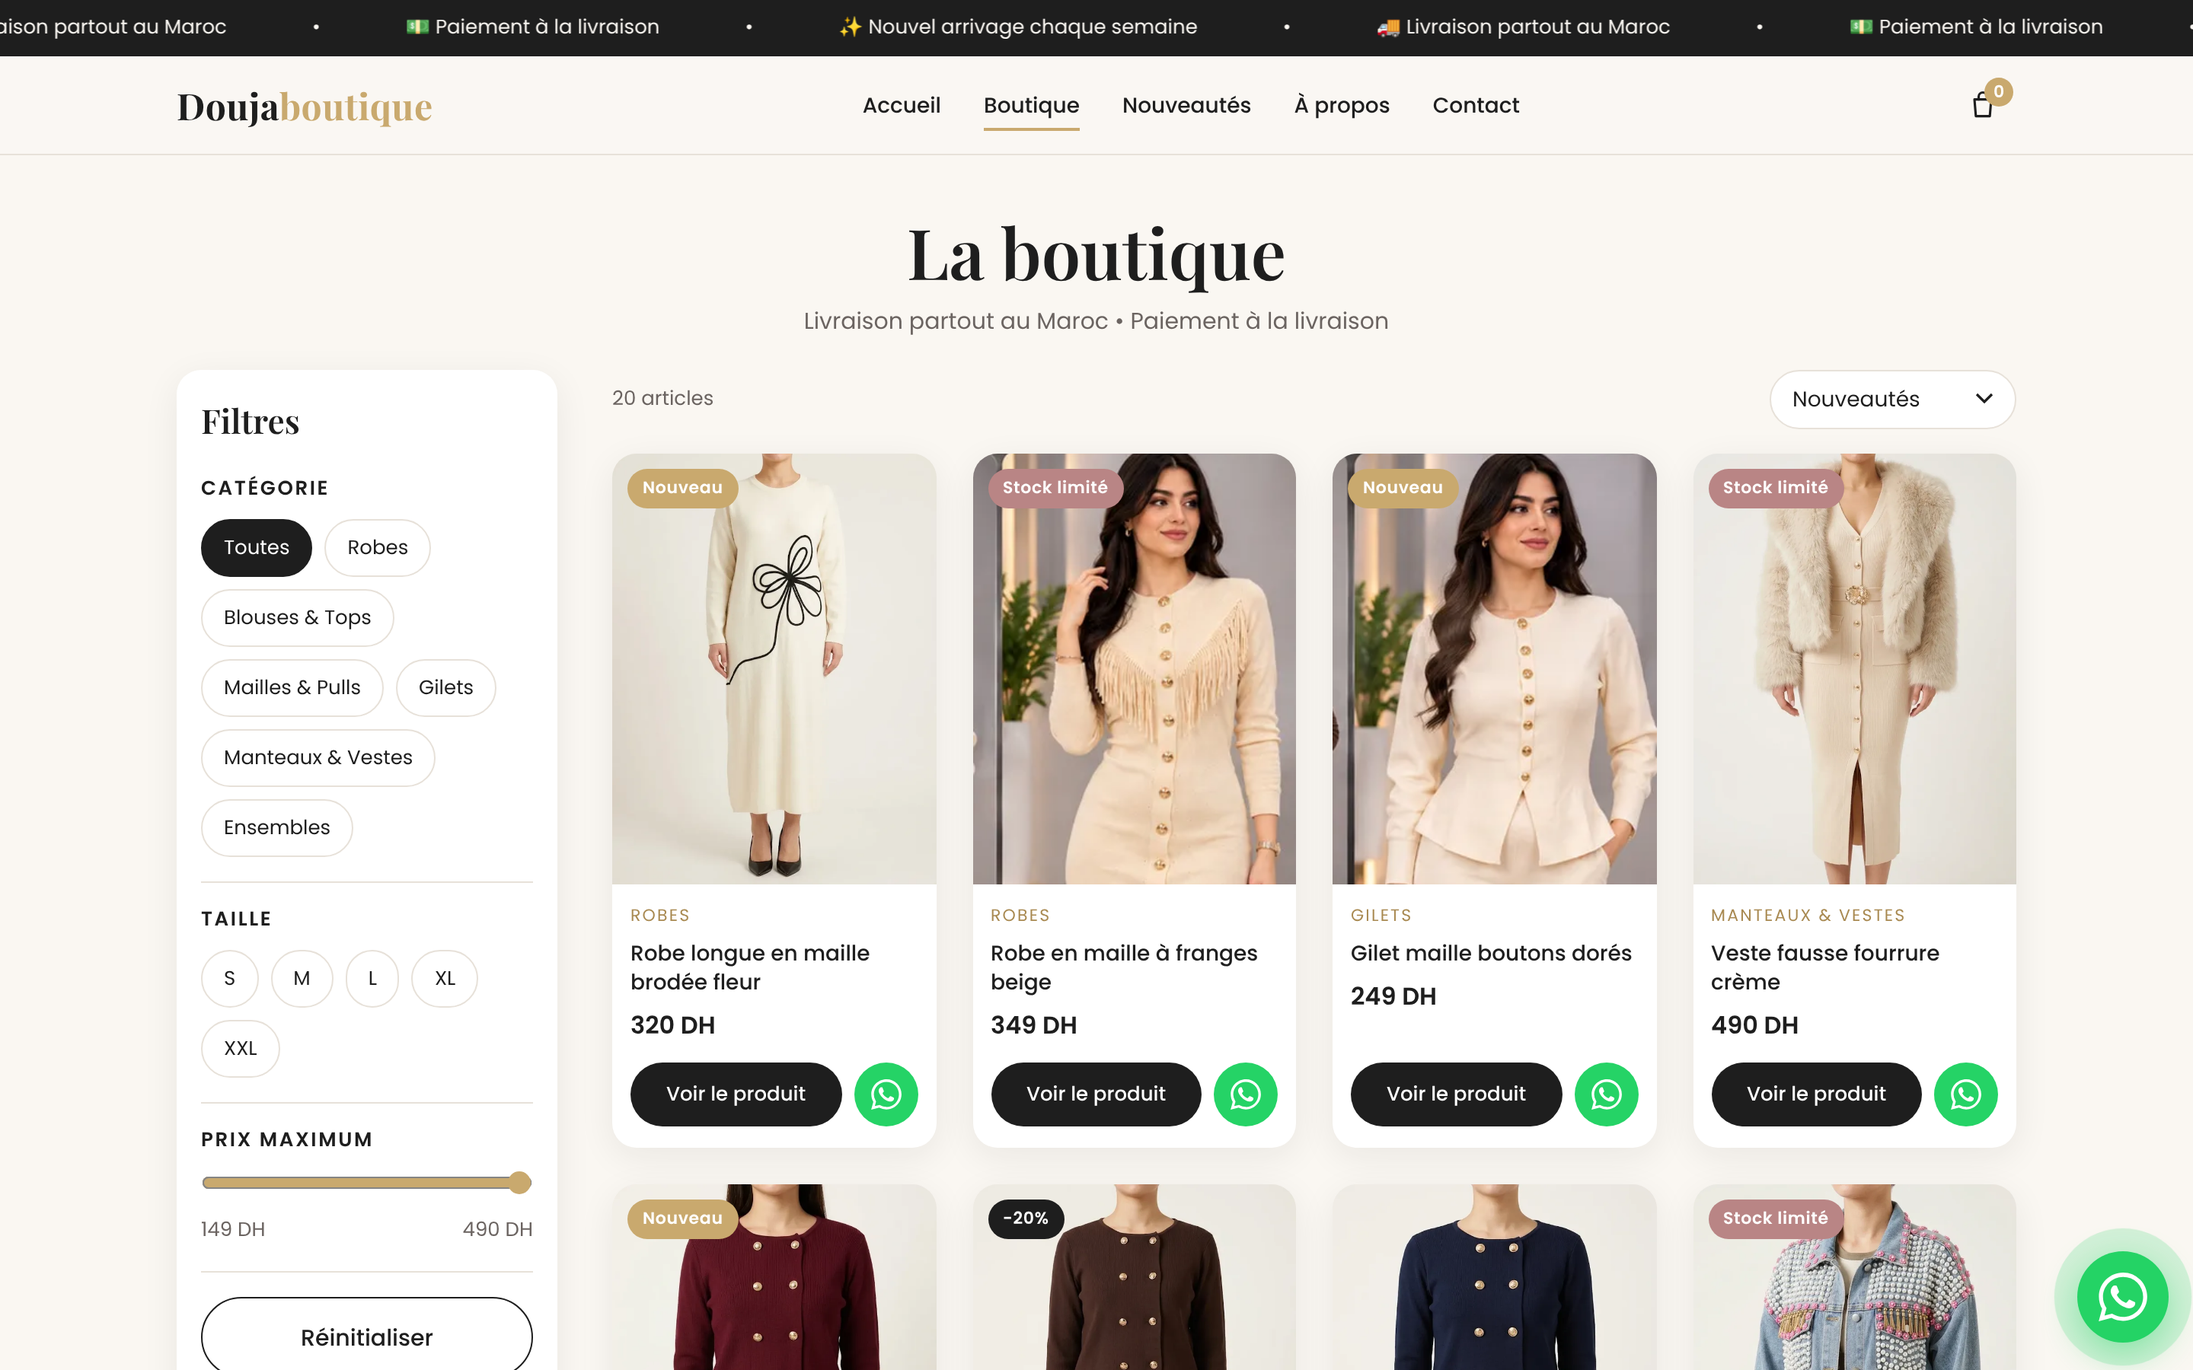
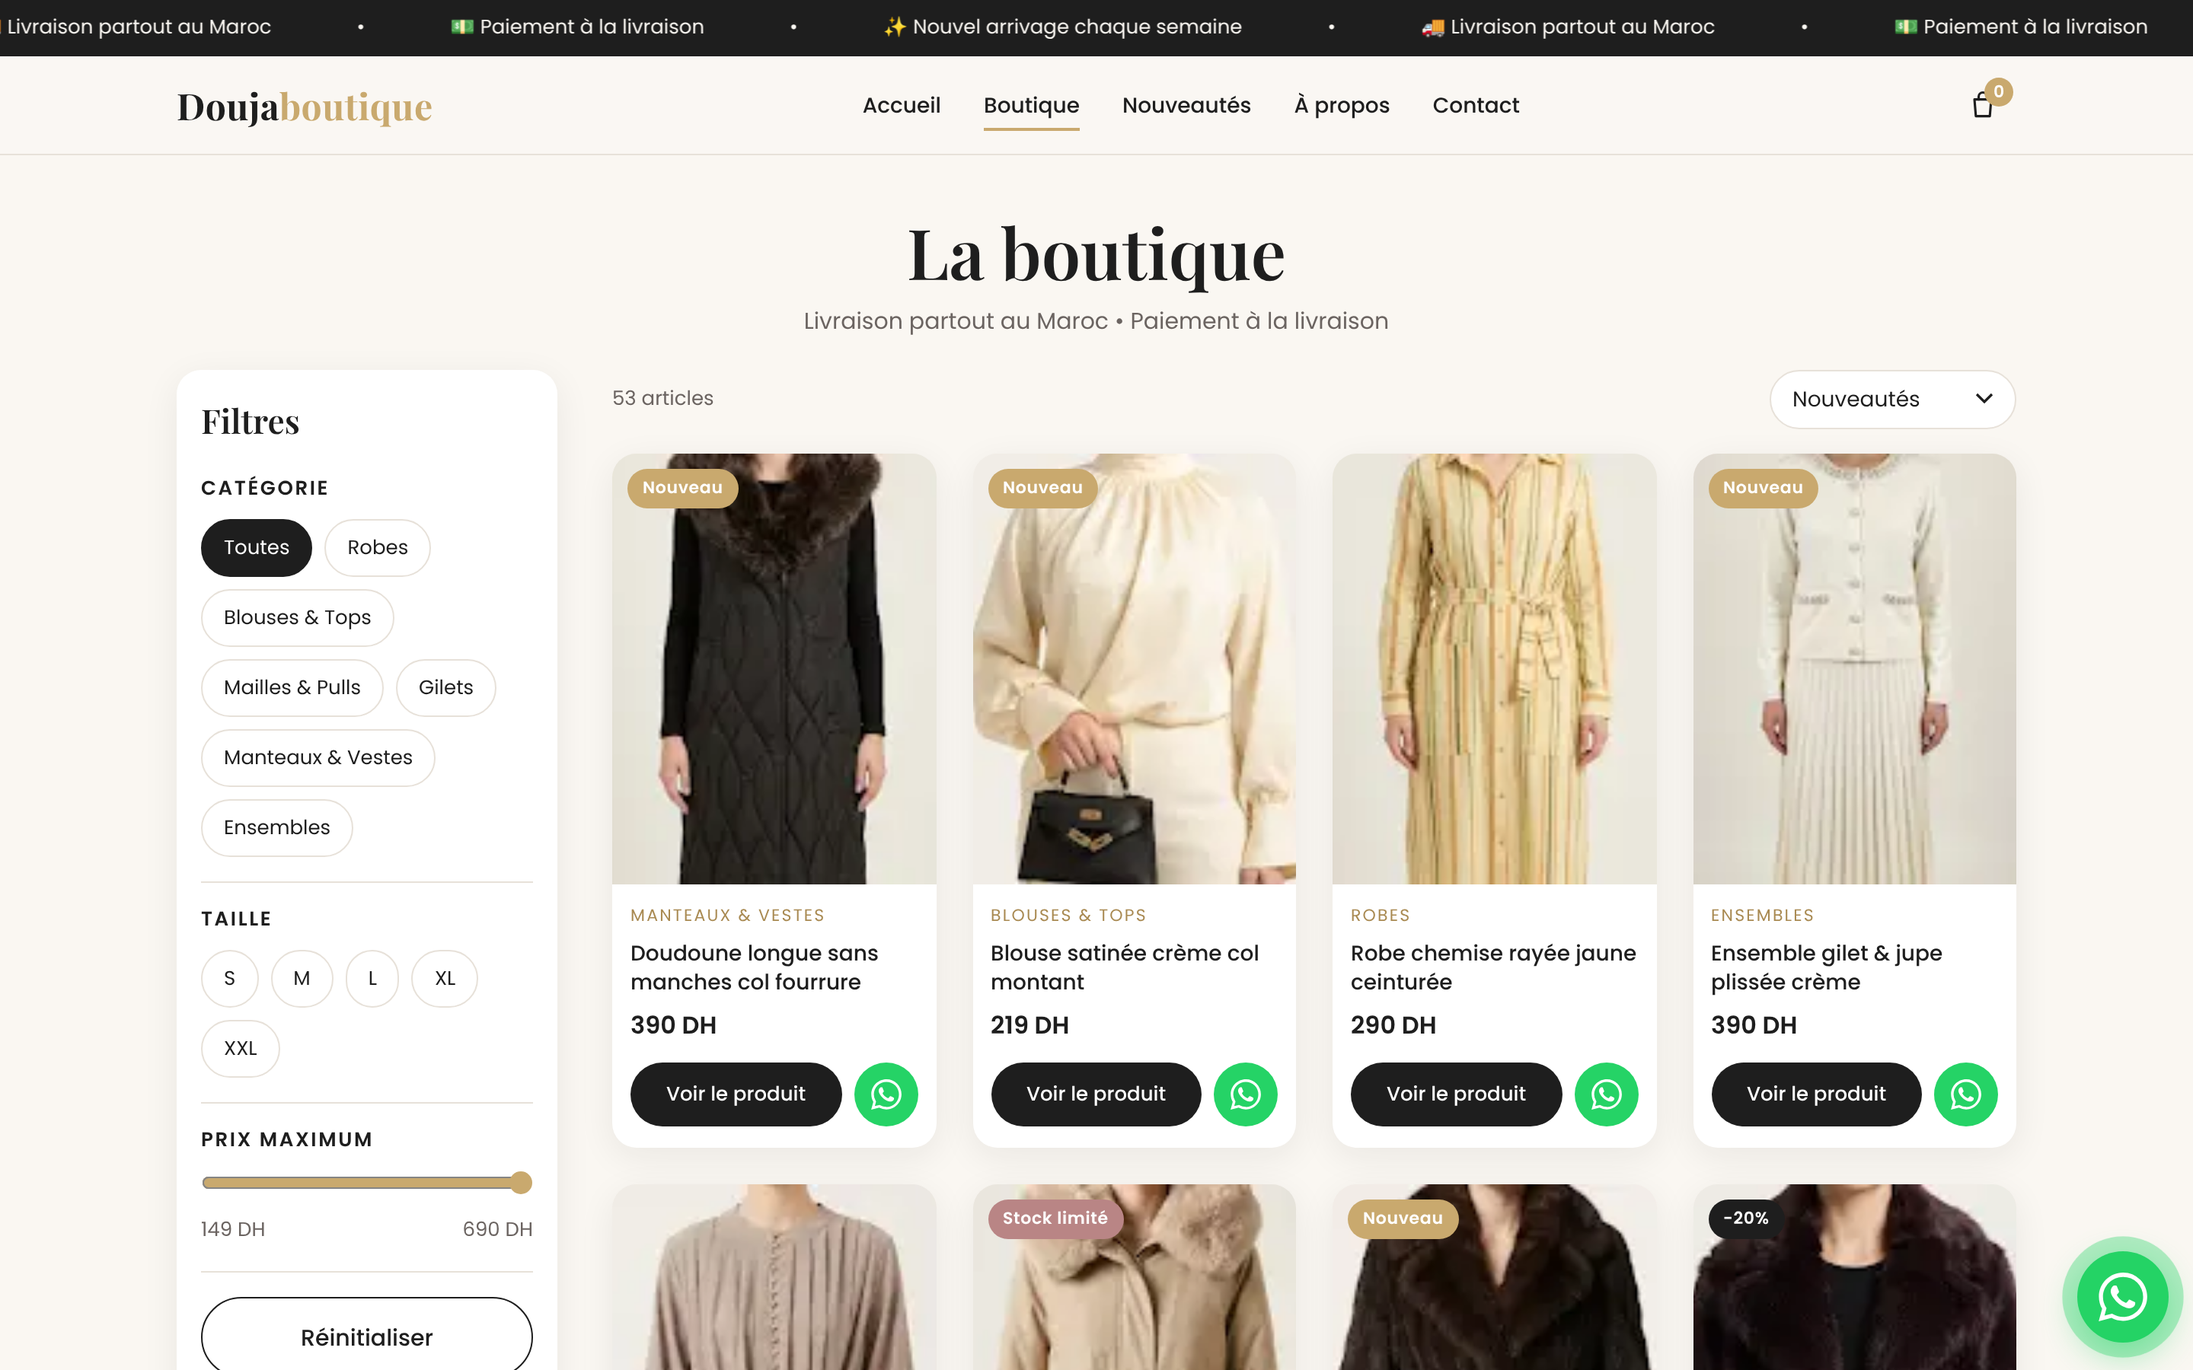
Ajout de 33 nouveaux produits avec les photos uploadées (images/produits/watermarked_img_*)
Claude-Session: https://claude.ai/code/session_01EJm8Yi92NseSCDeLtJQQhD

diff --git a/js/donnees.js b/js/donnees.js
@@ -166,6 +166,210 @@ const PRODUITS = [
     matiere: "Coton et viscose", entretien: "Lavage 30 °C." }
 ];
 
+
+/* ---------- Nouvel arrivage : photos ajoutées sur GitHub (images/produits/watermarked_img_…) ---------- */
+const W = num => `images/produits/watermarked_img_${num}.webp`;
+
+PRODUITS.push(
+  { id: 21, nom: "Doudoune longue sans manches col fourrure", categorie: "manteaux", prix: 390, ancienPrix: null,
+    tailles: ["S", "M", "L", "XL"], couleurs: [C.noir],
+    images: [W("10505514029965152665")], badge: "Nouveau", nouveau: 133, bestseller: false,
+    description: "Long gilet matelassé sans manches avec col en fausse fourrure amovible. Il réchauffe sans alourdir la silhouette.",
+    matiere: "Polyester matelassé, col fausse fourrure", entretien: "Lavage 30 °C, col à retirer avant lavage." },
+
+  { id: 22, nom: "Blouse satinée crème col montant", categorie: "blouses", prix: 219, ancienPrix: null,
+    tailles: ["S", "M", "L", "XL"], couleurs: [C.creme],
+    images: [W("10915095590516630955")], badge: "Nouveau", nouveau: 132, bestseller: true,
+    description: "Blouse fluide au toucher satiné, col montant et manches bouffantes resserrées aux poignets. Chic avec un pantalon droit.",
+    matiere: "Satin polyester", entretien: "Lavage à la main, repassage doux à l'envers." },
+
+  { id: 23, nom: "Robe chemise rayée jaune ceinturée", categorie: "robes", prix: 290, ancienPrix: null,
+    tailles: ["S", "M", "L", "XL", "XXL"], couleurs: [{ nom: "Jaune pastel", hex: "#F2E3A0" }],
+    images: [W("11008167513460789741")], badge: null, nouveau: 131, bestseller: false,
+    description: "Robe chemise longue à fines rayures, ceinture à nouer et manches longues. Légère et élégante pour la mi-saison.",
+    matiere: "Coton et viscose", entretien: "Lavage 30 °C, repassage." },
+
+  { id: 24, nom: "Ensemble gilet & jupe plissée crème", categorie: "ensembles", prix: 390, ancienPrix: null,
+    tailles: ["S", "M", "L"], couleurs: [C.creme],
+    images: [W("11503517147088695581")], badge: "Nouveau", nouveau: 130, bestseller: true,
+    description: "Gilet court à boutons bijoux et jupe longue plissée assortie. Un ensemble doux et raffiné pour les occasions.",
+    matiere: "Maille viscose, jupe polyester plissé", entretien: "Lavage à la main à froid." },
+
+  { id: 25, nom: "Blouse plissée taupe ceinturée", categorie: "blouses", prix: 229, ancienPrix: null,
+    tailles: ["S", "M", "L", "XL"], couleurs: [{ nom: "Taupe", hex: "#A8998A" }],
+    images: [W("11766587041463543883")], badge: null, nouveau: 129, bestseller: false,
+    description: "Blouse à plis fins sur le devant, cordon à nouer à la taille. Une pièce féminine qui se porte avec tout.",
+    matiere: "Viscose fluide", entretien: "Lavage 30 °C programme délicat." },
+
+  { id: 26, nom: "Parka beige capuche fourrure", categorie: "manteaux", prix: 590, ancienPrix: null,
+    tailles: ["M", "L", "XL"], couleurs: [C.beige],
+    images: [W("1212188270736755138")], badge: "Stock limité", nouveau: 128, bestseller: false,
+    description: "Parka mi-longue ajustée par un cordon, capuche bordée de fausse fourrure. Chaude et chic pour l'hiver à Fès.",
+    matiere: "Polyester déperlant, doublure ouatinée", entretien: "Lavage 30 °C, fourrure amovible." },
+
+  { id: 27, nom: "Manteau fausse fourrure marron", categorie: "manteaux", prix: 590, ancienPrix: null,
+    tailles: ["S", "M", "L", "XL"], couleurs: [C.marron],
+    images: [W("12933782814608865687"), W("9737547063673920733")], badge: "Nouveau", nouveau: 127, bestseller: true,
+    description: "Manteau mi-long en fausse fourrure ultra douce avec ceinture à nouer et col large. Chaleur et élégance pour les soirées fraîches.",
+    matiere: "Fausse fourrure 100 % polyester, doublure satin", entretien: "Nettoyage à sec recommandé." },
+
+  { id: 28, nom: "Manteau fausse fourrure prune", categorie: "manteaux", prix: 550, ancienPrix: 690,
+    tailles: ["S", "M", "L"], couleurs: [{ nom: "Prune", hex: "#4A1F2E" }],
+    images: [W("13539680176088971801"), W("4371200384629200901")], badge: "-20%", nouveau: 126, bestseller: false,
+    description: "Manteau en fausse fourrure couleur prune, coupe droite et col cranté. Une pièce forte qui illumine les tenues sombres.",
+    matiere: "Fausse fourrure polyester", entretien: "Nettoyage à sec recommandé." },
+
+  { id: 29, nom: "Doudoune ceinturée camel col fourrure", categorie: "manteaux", prix: 650, ancienPrix: null,
+    tailles: ["S", "M", "L", "XL"], couleurs: [C.camel],
+    images: [W("13721703411861569052"), W("14984449920764577918")], badge: "Stock limité", nouveau: 125, bestseller: true,
+    description: "Doudoune matelassée ceinturée à la taille avec grand col en fausse fourrure. Le confort d'une doudoune, l'allure d'un manteau.",
+    matiere: "Polyester, garnissage ouate", entretien: "Lavage 30 °C programme doux." },
+
+  { id: 30, nom: "Ensemble maille bordeaux dentelle", categorie: "ensembles", prix: 349, ancienPrix: null,
+    tailles: ["S", "M", "L", "XL"], couleurs: [C.bordeaux],
+    images: [W("14218981571472593475")], badge: null, nouveau: 124, bestseller: false,
+    description: "Pull et pantalon en maille bordeaux, épaules ornées de dentelle. Confortable et chic pour la maison comme pour sortir.",
+    matiere: "Maille viscose, dentelle", entretien: "Lavage 30 °C, séchage à plat." },
+
+  { id: 31, nom: "Doudoune sans manches crème à capuche", categorie: "manteaux", prix: 420, ancienPrix: null,
+    tailles: ["S", "M", "L", "XL"], couleurs: [C.creme],
+    images: [W("14550999724705292153"), W("14672266096149527611")], badge: "Nouveau", nouveau: 123, bestseller: false,
+    description: "Gilet matelassé sans manches à capuche, ceinture à boucle dorée. À superposer sur un pull fin.",
+    matiere: "Polyester matelassé", entretien: "Lavage 30 °C." },
+
+  { id: 32, nom: "Robe chemise rayée noire", categorie: "robes", prix: 299, ancienPrix: null,
+    tailles: ["S", "M", "L", "XL", "XXL"], couleurs: [C.noir],
+    images: [W("14683865187611428013")], badge: null, nouveau: 122, bestseller: false,
+    description: "Robe chemise à rayures tennis, ceinture à nouer. Un classique facile à porter au quotidien.",
+    matiere: "Coton et polyester", entretien: "Lavage 30 °C, repassage." },
+
+  { id: 33, nom: "Trench crème ceinturé", categorie: "manteaux", prix: 520, ancienPrix: null,
+    tailles: ["S", "M", "L", "XL"], couleurs: [C.creme],
+    images: [W("14753041877328397439")], badge: "Nouveau", nouveau: 121, bestseller: false,
+    description: "Trench long crème à double boutonnage, ceinture et pattes de poignets. Intemporel et lumineux.",
+    matiere: "Coton et polyester", entretien: "Lavage 30 °C ou nettoyage à sec." },
+
+  { id: 34, nom: "Ensemble veste tweed & jupe", categorie: "ensembles", prix: 450, ancienPrix: null,
+    tailles: ["S", "M", "L"], couleurs: [C.blanc],
+    images: [W("15194688100856960237")], badge: "Stock limité", nouveau: 120, bestseller: false,
+    description: "Veste en tweed à boutons bijoux et jupe assortie. L'ensemble chic par excellence pour les fêtes.",
+    matiere: "Tweed polyester et coton", entretien: "Nettoyage à sec." },
+
+  { id: 35, nom: "Gilet côtelé boutonné beige", categorie: "gilets", prix: 189, ancienPrix: null,
+    tailles: ["S", "M", "L", "XL"], couleurs: [C.beige],
+    images: [W("15875299946222614879")], badge: null, nouveau: 119, bestseller: false,
+    description: "Gilet ajusté en maille côtelée avec boutons perlés. Se porte fermé comme un top.",
+    matiere: "Maille viscose stretch", entretien: "Lavage 30 °C, séchage à plat." },
+
+  { id: 36, nom: "Manteau simili cuir col fourrure", categorie: "manteaux", prix: 690, ancienPrix: null,
+    tailles: ["M", "L", "XL"], couleurs: [C.noir],
+    images: [W("17128276634975041595")], badge: "Stock limité", nouveau: 118, bestseller: false,
+    description: "Manteau long en simili cuir, ceinturé, avec large col en fausse fourrure. La pièce statement de la saison.",
+    matiere: "Simili cuir PU, col fausse fourrure", entretien: "Nettoyer avec un chiffon humide." },
+
+  { id: 37, nom: "Veste maille col fourrure chocolat", categorie: "gilets", prix: 349, ancienPrix: null,
+    tailles: ["S", "M", "L", "XL"], couleurs: [C.marron],
+    images: [W("1715462789164679089")], badge: "Nouveau", nouveau: 117, bestseller: true,
+    description: "Veste en maille épaisse zippée avec col en fausse fourrure et poches plaquées. Douillette et élégante.",
+    matiere: "Maille acrylique et laine, col fausse fourrure", entretien: "Lavage à la main à froid." },
+
+  { id: 38, nom: "Chemise blanche classique", categorie: "blouses", prix: 159, ancienPrix: null,
+    tailles: ["S", "M", "L", "XL", "XXL"], couleurs: [C.blanc],
+    images: [W("17708310116349898701")], badge: null, nouveau: 116, bestseller: false,
+    description: "La chemise blanche indispensable, coupe droite et col classique. À porter partout.",
+    matiere: "Coton stretch", entretien: "Lavage 40 °C, repassage." },
+
+  { id: 39, nom: "Body col V blanc", categorie: "blouses", prix: 149, ancienPrix: null,
+    tailles: ["S", "M", "L", "XL"], couleurs: [C.blanc],
+    images: [W("17871523708191158767")], badge: null, nouveau: 115, bestseller: false,
+    description: "Top près du corps à col V, manches longues. La base parfaite sous un gilet ou une veste.",
+    matiere: "Viscose stretch", entretien: "Lavage 30 °C." },
+
+  { id: 40, nom: "Blouse cintrée crème", categorie: "blouses", prix: 209, ancienPrix: null,
+    tailles: ["S", "M", "L", "XL"], couleurs: [C.creme],
+    images: [W("17969103182839402082"), W("7623933164215580270")], badge: null, nouveau: 114, bestseller: false,
+    description: "Blouse à col chemise, cintrée par des plis à la taille. Elle structure la silhouette avec élégance.",
+    matiere: "Coton et polyester", entretien: "Lavage 30 °C, repassage doux." },
+
+  { id: 41, nom: "Veste fausse fourrure bordeaux", categorie: "manteaux", prix: 490, ancienPrix: null,
+    tailles: ["S", "M", "L"], couleurs: [C.bordeaux],
+    images: [W("1956542704620608522")], badge: "Nouveau", nouveau: 113, bestseller: false,
+    description: "Veste courte en fausse fourrure bordeaux, ceinture à nouer et poignets en fourrure. Glamour garanti.",
+    matiere: "Fausse fourrure polyester", entretien: "Nettoyage à sec recommandé." },
+
+  { id: 42, nom: "Trench bicolore ceinturé", categorie: "manteaux", prix: 560, ancienPrix: null,
+    tailles: ["S", "M", "L", "XL"], couleurs: [C.beige],
+    images: [W("1962933983281496528")], badge: null, nouveau: 112, bestseller: false,
+    description: "Trench original beige et chocolat, grosse ceinture et col classique. Pour un look affirmé.",
+    matiere: "Polyester et coton", entretien: "Nettoyage à sec." },
+
+  { id: 43, nom: "Blouse jaune à volants", categorie: "blouses", prix: 199, ancienPrix: 249,
+    tailles: ["S", "M", "L", "XL"], couleurs: [{ nom: "Jaune pastel", hex: "#F2E3A0" }],
+    images: [W("2428149416104434852")], badge: "-20%", nouveau: 111, bestseller: false,
+    description: "Blouse pastel ornée de volants sur le devant et d'un petit bijou au col. Romantique et lumineuse.",
+    matiere: "Mousseline polyester", entretien: "Lavage à la main." },
+
+  { id: 44, nom: "Blouse portefeuille crème", categorie: "blouses", prix: 199, ancienPrix: null,
+    tailles: ["S", "M", "L", "XL"], couleurs: [C.creme],
+    images: [W("274138618425530447")], badge: null, nouveau: 110, bestseller: false,
+    description: "Blouse cache-cœur à nouer sur le côté. Elle se porte rentrée dans un pantalon taille haute.",
+    matiere: "Viscose", entretien: "Lavage 30 °C." },
+
+  { id: 45, nom: "Ensemble chemise & pantalon rose", categorie: "ensembles", prix: 329, ancienPrix: null,
+    tailles: ["S", "M", "L", "XL"], couleurs: [C.rose],
+    images: [W("3669901052077669688")], badge: "Nouveau", nouveau: 109, bestseller: false,
+    description: "Chemise ceinturée et pantalon large rose poudré. Un ensemble frais et féminin.",
+    matiere: "Viscose et lin", entretien: "Lavage 30 °C." },
+
+  { id: 46, nom: "Robe en dentelle jaune pastel", categorie: "robes", prix: 349, ancienPrix: null,
+    tailles: ["S", "M", "L", "XL"], couleurs: [{ nom: "Jaune pastel", hex: "#F2E3A0" }],
+    images: [W("4032324895693880097")], badge: null, nouveau: 108, bestseller: false,
+    description: "Robe longue boutonnée à col tailleur, manches en dentelle. Délicate et parfaite pour les fêtes de famille.",
+    matiere: "Polyester et dentelle", entretien: "Lavage à la main à froid." },
+
+  { id: 47, nom: "Blouson matelassé crème", categorie: "manteaux", prix: 390, ancienPrix: null,
+    tailles: ["S", "M", "L", "XL"], couleurs: [C.creme],
+    images: [W("4107667433307624382")], badge: null, nouveau: 107, bestseller: false,
+    description: "Blouson court matelassé à col montant. Léger et chaud, il se porte avec un jean.",
+    matiere: "Polyester, garnissage ouate", entretien: "Lavage 30 °C." },
+
+  { id: 48, nom: "Pull col rond gris chiné", categorie: "mailles", prix: 179, ancienPrix: null,
+    tailles: ["S", "M", "L", "XL", "XXL"], couleurs: [C.gris],
+    images: [W("4472174501951214597")], badge: null, nouveau: 106, bestseller: false,
+    description: "Pull basique doux et chaud à col rond. Le pull qu'on porte tout l'hiver.",
+    matiere: "Acrylique et laine", entretien: "Lavage 30 °C programme laine." },
+
+  { id: 49, nom: "Ensemble t-shirt & jupe dentelle", categorie: "ensembles", prix: 299, ancienPrix: null,
+    tailles: ["S", "M", "L"], couleurs: [C.bleu],
+    images: [W("4983383182127082989")], badge: null, nouveau: 105, bestseller: false,
+    description: "T-shirt blanc ajusté et jupe longue en dentelle bleu ciel. Doux, frais et élégant.",
+    matiere: "Coton, jupe dentelle polyester", entretien: "Lavage à la main." },
+
+  { id: 50, nom: "Gilet boutonné blanc cassé", categorie: "gilets", prix: 199, ancienPrix: null,
+    tailles: ["S", "M", "L", "XL"], couleurs: [C.creme],
+    images: [W("6031704820786705737")], badge: null, nouveau: 104, bestseller: false,
+    description: "Gilet col V en maille fine avec boutons dorés. Le basique chic à superposer.",
+    matiere: "Viscose et polyester", entretien: "Lavage 30 °C." },
+
+  { id: 51, nom: "Trench long beige liseré", categorie: "manteaux", prix: 540, ancienPrix: null,
+    tailles: ["S", "M", "L", "XL", "XXL"], couleurs: [C.beige],
+    images: [W("8666337325778343892")], badge: null, nouveau: 103, bestseller: false,
+    description: "Trench long beige avec liserés chocolat aux poignets et ceinture. Élégant au quotidien.",
+    matiere: "Coton et polyester", entretien: "Lavage 30 °C ou nettoyage à sec." },
+
+  { id: 52, nom: "Doudoune longue rose col fourrure", categorie: "manteaux", prix: 620, ancienPrix: null,
+    tailles: ["S", "M", "L", "XL"], couleurs: [C.rose],
+    images: [W("9075153218436302756")], badge: "Nouveau", nouveau: 102, bestseller: false,
+    description: "Doudoune longue matelassée rose poudré, ceinturée, capuche en fausse fourrure. Chaude et ultra féminine.",
+    matiere: "Polyester, garnissage ouate", entretien: "Lavage 30 °C programme doux." },
+
+  { id: 53, nom: "Pull blanc col foulard", categorie: "mailles", prix: 199, ancienPrix: null,
+    tailles: ["S", "M", "L", "XL"], couleurs: [C.blanc],
+    images: [W("9094283891852015686")], badge: null, nouveau: 101, bestseller: false,
+    description: "Pull fin blanc avec foulard noué au col. Une touche chic et rétro.",
+    matiere: "Viscose", entretien: "Lavage 30 °C." }
+);
+
 /* ---------- Avis clientes ---------- */
 const AVIS = [
   { prenom: "Salma", ville: "Fès", note: 5, texte: "Tbarkellah, l'ensemble bordeaux est encore plus beau en vrai ! Livré le lendemain et la qualité est top. Merci Douja 🤍" },
